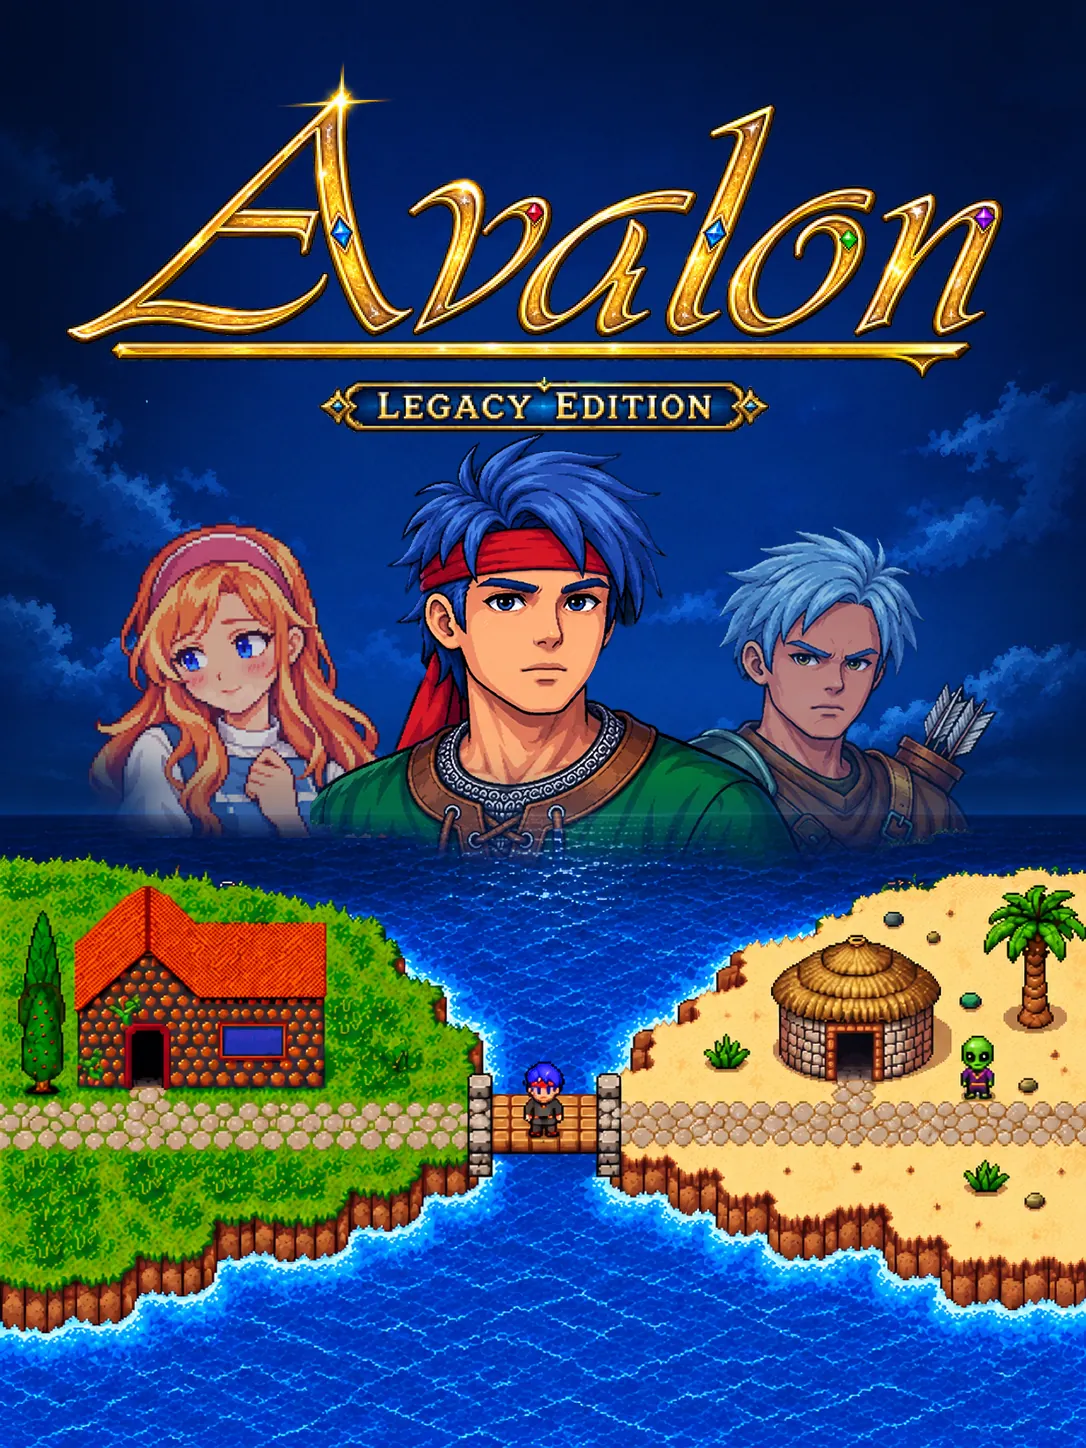
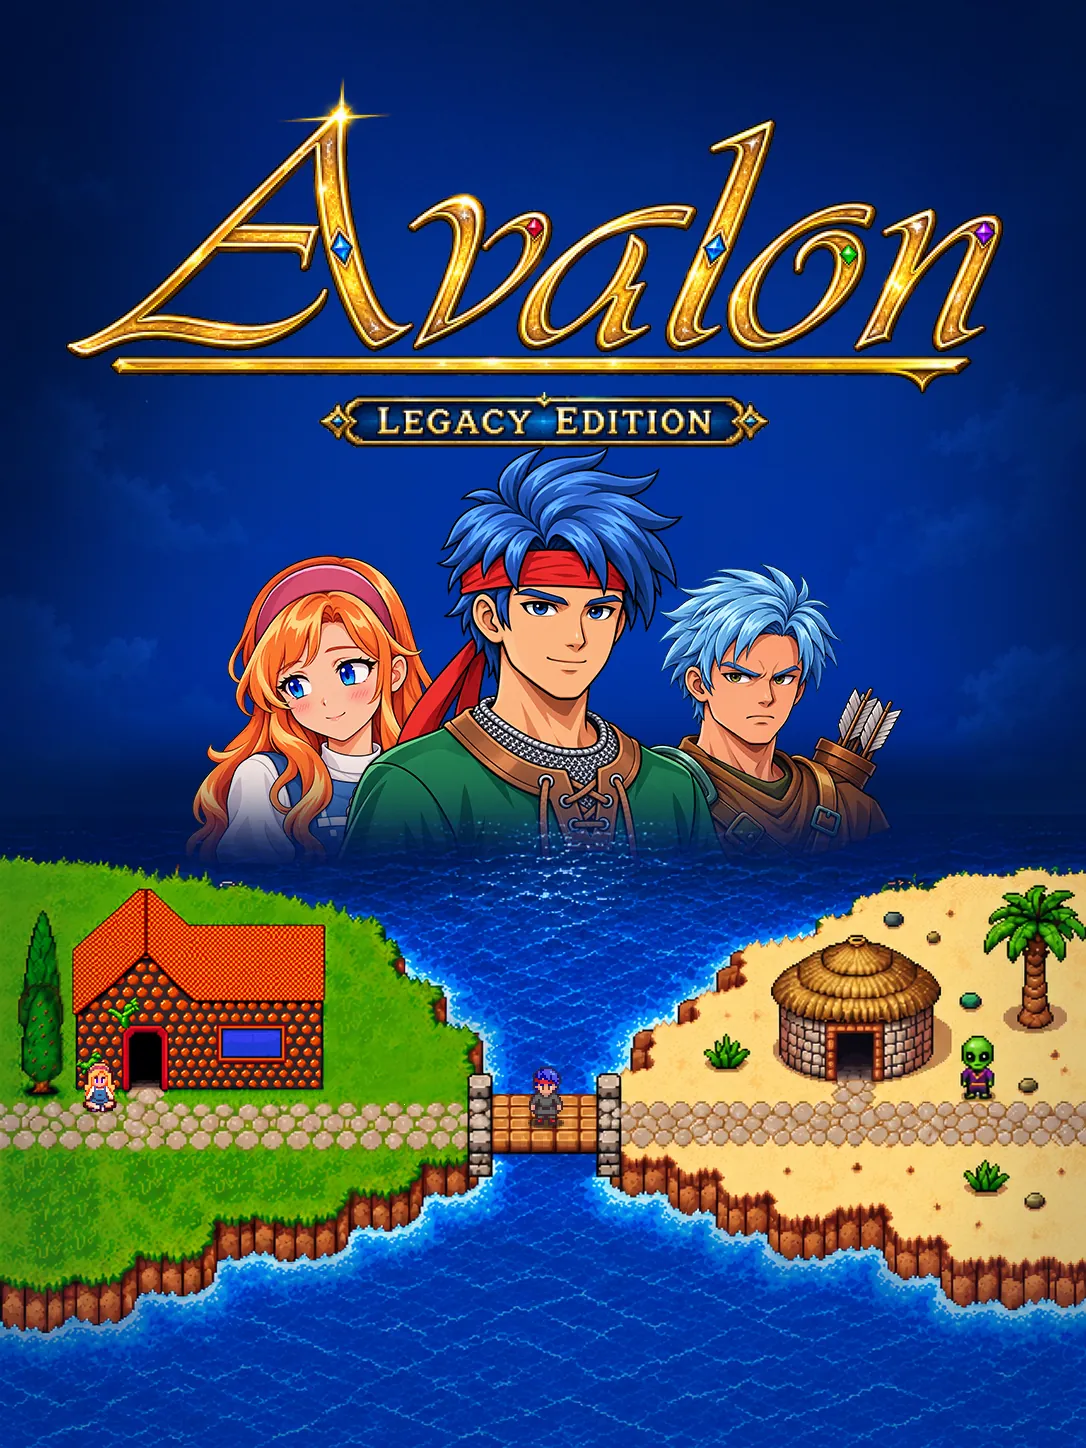
New assets

diff --git a/src/site.css b/src/site.css
@@ -510,7 +510,7 @@ p:last-child { margin-bottom: 0; }
 /* Home: hero                                                                                   */
 /* ------------------------------------------------------------------------------------------ */
 
-/* Landscape key art (built from the approved movie-poster v2 by make_landscape_keyart.py) on
+/* Landscape key art (built from the approved movie-poster v4 by make_landscape_keyart.py) on
    wide screens, the approved portrait poster itself on phones. */
 .hero { position: relative; }
 .hero-art {

diff --git a/scripts/make_landscape_keyart.py b/scripts/make_landscape_keyart.py
@@ -1,15 +1,15 @@
 #!/usr/bin/env python3
 """Build the landscape (16:9) key art from the approved portrait box art.
 
-The approved key art is the movie-poster box art, v2 (`art/box-art/movie-poster-v2/box-art.psd`
-in the game repository), and it only exists in portrait. This rebuilds a 1930×1086 landscape
-version out of that PSD's own layers, adding no new artwork:
+The approved key art is the movie-poster box art, v4 (`art/box-art/movie-poster-v4/` in this
+repository: `box-art_v4.jpg` plus its layers exported as PNG), and it only exists in portrait. This
+rebuilds a 1930×1086 landscape version out of those layers, adding no new artwork:
 
 - the scene layers (sky, sea, the village and alien-village islands, the bridge) are cropped to
   16:9 height and widened by mirroring their outer 422px, so sky, sea, cliffs and coast carry on
   seamlessly and both islands close into whole islands;
-- the objects that mirroring would duplicate (the house, the hut, the palm, the alien, a few
-  plants and stones) are painted out with quilted grass and sand taken from the same islands;
+- the objects that mirroring would duplicate (the house, Fleur, the hut, the palm, the alien, a
+  few plants and stones) are painted out with quilted grass and sand taken from the same islands;
 - the logo and the character group (Fleur, Mace, Caddman, with their fade into the sea) are
   placed side by side over the sky: logo left, characters right, at the height they have on the
   poster.
@@ -17,24 +17,17 @@ version out of that PSD's own layers, adding no new artwork:
 Writes `art/keyart-landscape.png`; `import_game_assets.py` makes the web sizes from it. The
 random tiling is seeded, so a re-run gives the same image.
 
-Needs `psd-tools[composite]` (pip install 'psd-tools[composite]'), numpy and Pillow.
+Needs numpy and Pillow.
 """
-import os
 from pathlib import Path
 
 import numpy as np
 from PIL import Image, ImageFilter
-from psd_tools import PSDImage
 
 SITE = Path(__file__).resolve().parent.parent
-GAME = Path(os.environ.get("AVALON_REMAKE", SITE.parent / "Avalon-Remake")).resolve()
-PSD = GAME / "art/box-art/movie-poster-v2/box-art.psd"
-APPROVED = GAME / "art/box-art/movie-poster-v2/box-art_v2.jpg"
+BOX_ART = SITE / "art/box-art/movie-poster-v4"
+APPROVED = BOX_ART / "box-art_v4.jpg"
 OUT = SITE / "art/keyart-landscape.png"
-
-SCENE_LAYERS = {"Background", "Layer 7", "Curves 1"}
-CHARACTER_LAYERS = {"Group 1", "Layer 5", "Layer 10", "Layer 4 copy 2"}   # group mask included
-LOGO_LAYERS = {"Layer 9", "Layer 8"}                                      # "Avalon" + plaque
 
 TOP, H = 300, 1086           # the poster rows kept (16:9 at the poster's own scale)
 E = 422                      # width added on each side
@@ -67,7 +60,7 @@ def quilt(sources, w, h, tile=40, overlap=12):
     return (out / np.maximum(wsum, 1e-6))[:h, :w]
 
 
-def paint_out(ext, box, sources, keep_sea=False, feather=FEATHER):
+def paint_out(ext, box, sources, keep_sea=False, feather=FEATHER, match=False):
     """Cover ext[box] with quilted texture, blended in over a soft edge. With keep_sea, pixels
     that are sea in the original are left alone, so a patch near the coast can't push sand out
     into the water."""
@@ -77,6 +70,17 @@ def paint_out(ext, box, sources, keep_sea=False, feather=FEATHER):
     d = np.minimum.reduce([yy + 1, xx + 1, (y1 - y0) - yy, (x1 - x0) - xx]).astype(float)
     m = np.clip(d / feather, 0, 1)[..., None]
     region = ext[y0:y1, x0:x1].astype(float)
+    # With match, the fill's median colour is set to that of the ring of pixels around the patch,
+    # so the patch has no visible edge where the shading differs from where the texture came from.
+    ring = np.ones((y1 - y0, x1 - x0), bool)
+    ring[feather:-feather, feather:-feather] = False
+    border = region[ring]
+    if keep_sea:
+        r, g, b = border[:, 0], border[:, 1], border[:, 2]
+        border = border[~((b > r + 30) & (b > g + 10) & (g >= r))]
+    if match and len(border):
+        fill[..., :3] += np.median(border[:, :3], 0) - np.median(fill[..., :3].reshape(-1, 3), 0)
+        fill = np.clip(fill, 0, 255)
     if keep_sea:
         r, g, b = region[..., 0], region[..., 1], region[..., 2]
         land = ~((b > r + 30) & (b > g + 10) & (g >= r))
@@ -86,16 +90,31 @@ def paint_out(ext, box, sources, keep_sea=False, feather=FEATHER):
     ext[y0:y1, x0:x1] = (fill * m + region * (1 - m)).round().astype(np.uint8)
 
 
+def patch_from(ext, box, dx, feather=6):
+    """Cover ext[box] with the pixels dx to the side, blended in over a soft edge. For spots on
+    the cobbled path, where quilting would break up the stones."""
+    x0, y0, x1, y1 = box
+    yy, xx = np.mgrid[0:y1 - y0, 0:x1 - x0]
+    d = np.minimum.reduce([yy + 1, xx + 1, (y1 - y0) - yy, (x1 - x0) - xx]).astype(float)
+    m = np.clip(d / feather, 0, 1)[..., None]
+    region = ext[y0:y1, x0:x1].astype(float)
+    fill = ext[y0:y1, x0 + dx:x1 + dx].astype(float)
+    ext[y0:y1, x0:x1] = (fill * m + region * (1 - m)).round().astype(np.uint8)
+
+
 def crop(arr, box):
     x0, y0, x1, y1 = box
     return arr[y0:y1, x0:x1].astype(float)
 
 
 def main():
-    psd = PSDImage.open(PSD)
-    scene = psd.composite(layer_filter=lambda l: l.name in SCENE_LAYERS and l.visible)
-    chars = psd.composite(layer_filter=lambda l: l.name in CHARACTER_LAYERS and l.visible)
-    logo = psd.composite(layer_filter=lambda l: l.name in LOGO_LAYERS)
+    def layer(name):
+        return Image.open(BOX_ART / f"{name}.png").convert("RGBA")
+
+    scene = layer("background")
+    chars = layer("characters")
+    logo = layer("avalon")
+    logo.alpha_composite(layer("legacy-edition"))
 
     # Guard: scene + characters + logo must still add up to the approved poster.
     rebuilt = scene.convert("RGBA")
@@ -104,16 +123,22 @@ def main():
     diff = np.abs(np.asarray(rebuilt.convert("RGB"), int)
                   - np.asarray(Image.open(APPROVED).convert("RGB"), int)).mean()
     if diff > 3:
-        raise SystemExit(f"PSD layers no longer rebuild the approved poster (mean diff {diff:.1f})"
-                         " — the layer names above need updating.")
+        raise SystemExit(f"The layers no longer rebuild the approved poster (mean diff {diff:.1f}).")
 
     a = np.asarray(scene.convert("RGBA").crop((0, TOP, 1086, TOP + H))).copy()
     left = a[:, :E][:, ::-1].copy()      # canvas x 0..E       ↔ poster x E-1..0
     right = a[:, -E:][:, ::-1].copy()    # canvas x E+1086..W  ↔ poster x 1085..1086-E
 
-    # Left: the mirrored house → grass (from below the path, and beside the house).
-    grass = [crop(a, (5, y(1152), 200, y(1225))), crop(a, (335, y(960), 390, y(1085)))]
-    paint_out(left, (E - 345, y(884), E - 55, y(1095)), grass)
+    # Left: the mirrored house → grass (from beside the house, the same smooth meadow).
+    grass = [crop(a, (335, y(960), 390, y(1085)))]
+    # Two passes: the first leaves the sea at the top-left corner alone, the second covers the
+    # window and dark walls that the first one takes for sea.
+    paint_out(left, (E - 345, y(884), E - 55, y(1102)), grass, keep_sea=True, feather=16)
+    paint_out(left, (E - 345, y(935), E - 55, y(1102)), grass, feather=16)
+    # The mirrored Fleur, sitting on the edge of the path: grass above it, and the path beside her
+    # below (the tree trunk is in the source above row 1094).
+    paint_out(left, (E - 126, y(1070), E - 72, y(1100)), grass, feather=4)
+    patch_from(left, (E - 126, y(1096), E - 72, y(1120)), 60)
 
     # Right: the mirrored hut and its stepping stones, palm, a green stone, the alien and two
     # plants → sand. Boxes are in poster coordinates; ext index = 1085 - poster x.
@@ -132,7 +157,7 @@ def main():
             continue
         ox0 = max(ox0, 1086 - E)
         paint_out(right, (1085 - (ox1 - 1), y(oy0), 1085 - ox0 + 1, y(oy1)), sand,
-                  keep_sea=True, feather=6)
+                  keep_sea=True, feather=14, match=True)
 
     out = Image.fromarray(np.concatenate([left, a, right], axis=1))
 

diff --git a/scripts/import_game_assets.py b/scripts/import_game_assets.py
@@ -80,11 +80,12 @@ MACE_EMOTIONS = ["mace_talk01", "mace_smile", "mace_proud", "mace_thinking", "ma
 ITEM_ICONS = ["relic_disc", "swiss_watch", "map", "translator", "golden_key",
               "pick_axe", "torch", "necklace", "first_aid_kit", "master_key"]
 
-# The approved key art: the "movie poster" box art, v2. It only exists in portrait, and is shown
-# as-is — never cropped; wide spaces use the landscape adaptation below.
-POSTER = ART / "box-art/movie-poster-v2/box-art_v2.jpg"
-# Its landscape adaptation, built from the same PSD's layers by make_landscape_keyart.py (kept in
-# this repo, since it is the site's derivative, not a game asset).
+# The approved key art: the "movie poster" box art, v4, kept in this repo with its layers
+# (art/box-art/movie-poster-v4). It only exists in portrait, and is shown as-is — never cropped;
+# wide spaces use the landscape adaptation below.
+BOX_ART = SITE / "art/box-art/movie-poster-v4"
+POSTER = BOX_ART / "box-art_v4.jpg"
+# Its landscape adaptation, built from the same layers by make_landscape_keyart.py.
 LANDSCAPE = SITE / "art/keyart-landscape.png"
 
 # Painted art: (source, output stem, widths). The first width is the default src.
@@ -247,7 +248,7 @@ def import_painted():
     shutil.copyfile(POSTER, dest("press/avalon-legacy-edition-key-art.jpg"))
     Image.open(LANDSCAPE).convert("RGB").save(dest("press/avalon-legacy-edition-key-art-landscape.jpg"),
                                               quality=92, optimize=True)
-    shutil.copyfile(POSTER.parent / "box-art-characters-trans.png", dest("press/avalon-characters-transparent.png"))
+    shutil.copyfile(BOX_ART / "characters.png", dest("press/avalon-characters-transparent.png"))
 
 
 def import_portraits():
